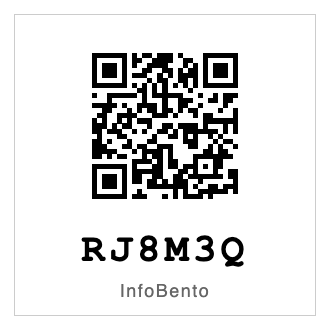
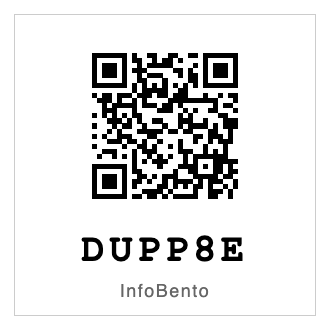
docs(web): setup-guide sticker now shows the real bench device pairing sticker (#188) (#189)
* docs(web): setup-guide sticker now shows the real bench device pairing sticker (#188)

Replaces the sample-CSV sticker (RJ8M3Q) with the sticker for the bench
device (pair code DUPP8E). Only the pair code + QR appear — the Device ID
is the bearer secret and never appears on stickers.

Closes #188

* docs: CLAUDE.md — web app is public at www.infobento.com, not private

---------

Changed region(s): [[0.2727, 0.1515, 0.7273, 0.6061], [0.4242, 0.697, 0.7576, 0.8182], [0.2424, 0.697, 0.3939, 0.7879]]

diff --git a/CLAUDE.md b/CLAUDE.md
@@ -104,5 +104,5 @@ The renderer produces eInk frame buffers (4 levels, 156,400 bytes for 920x680). 
 
 - **Single-port production:** Hono serves API + web UI from one port (default 4000). Will eventually be co-hosted alongside tiles- and webmap.dev on the same server.
 - **API:** Stateless pure functions, edge-deployable (Hono runs on Node, Cloudflare Workers, Deno, Bun).
-- **Web app:** Private during initial development.
+- **Web app:** Public at https://www.infobento.com — anything in `packages/web/public/` (including setup-guide assets) is world-readable; never publish production pair codes or Device IDs.
 - **GitHub repo:** Private. Use `review-requested` label on PRs to trigger Claude review.
